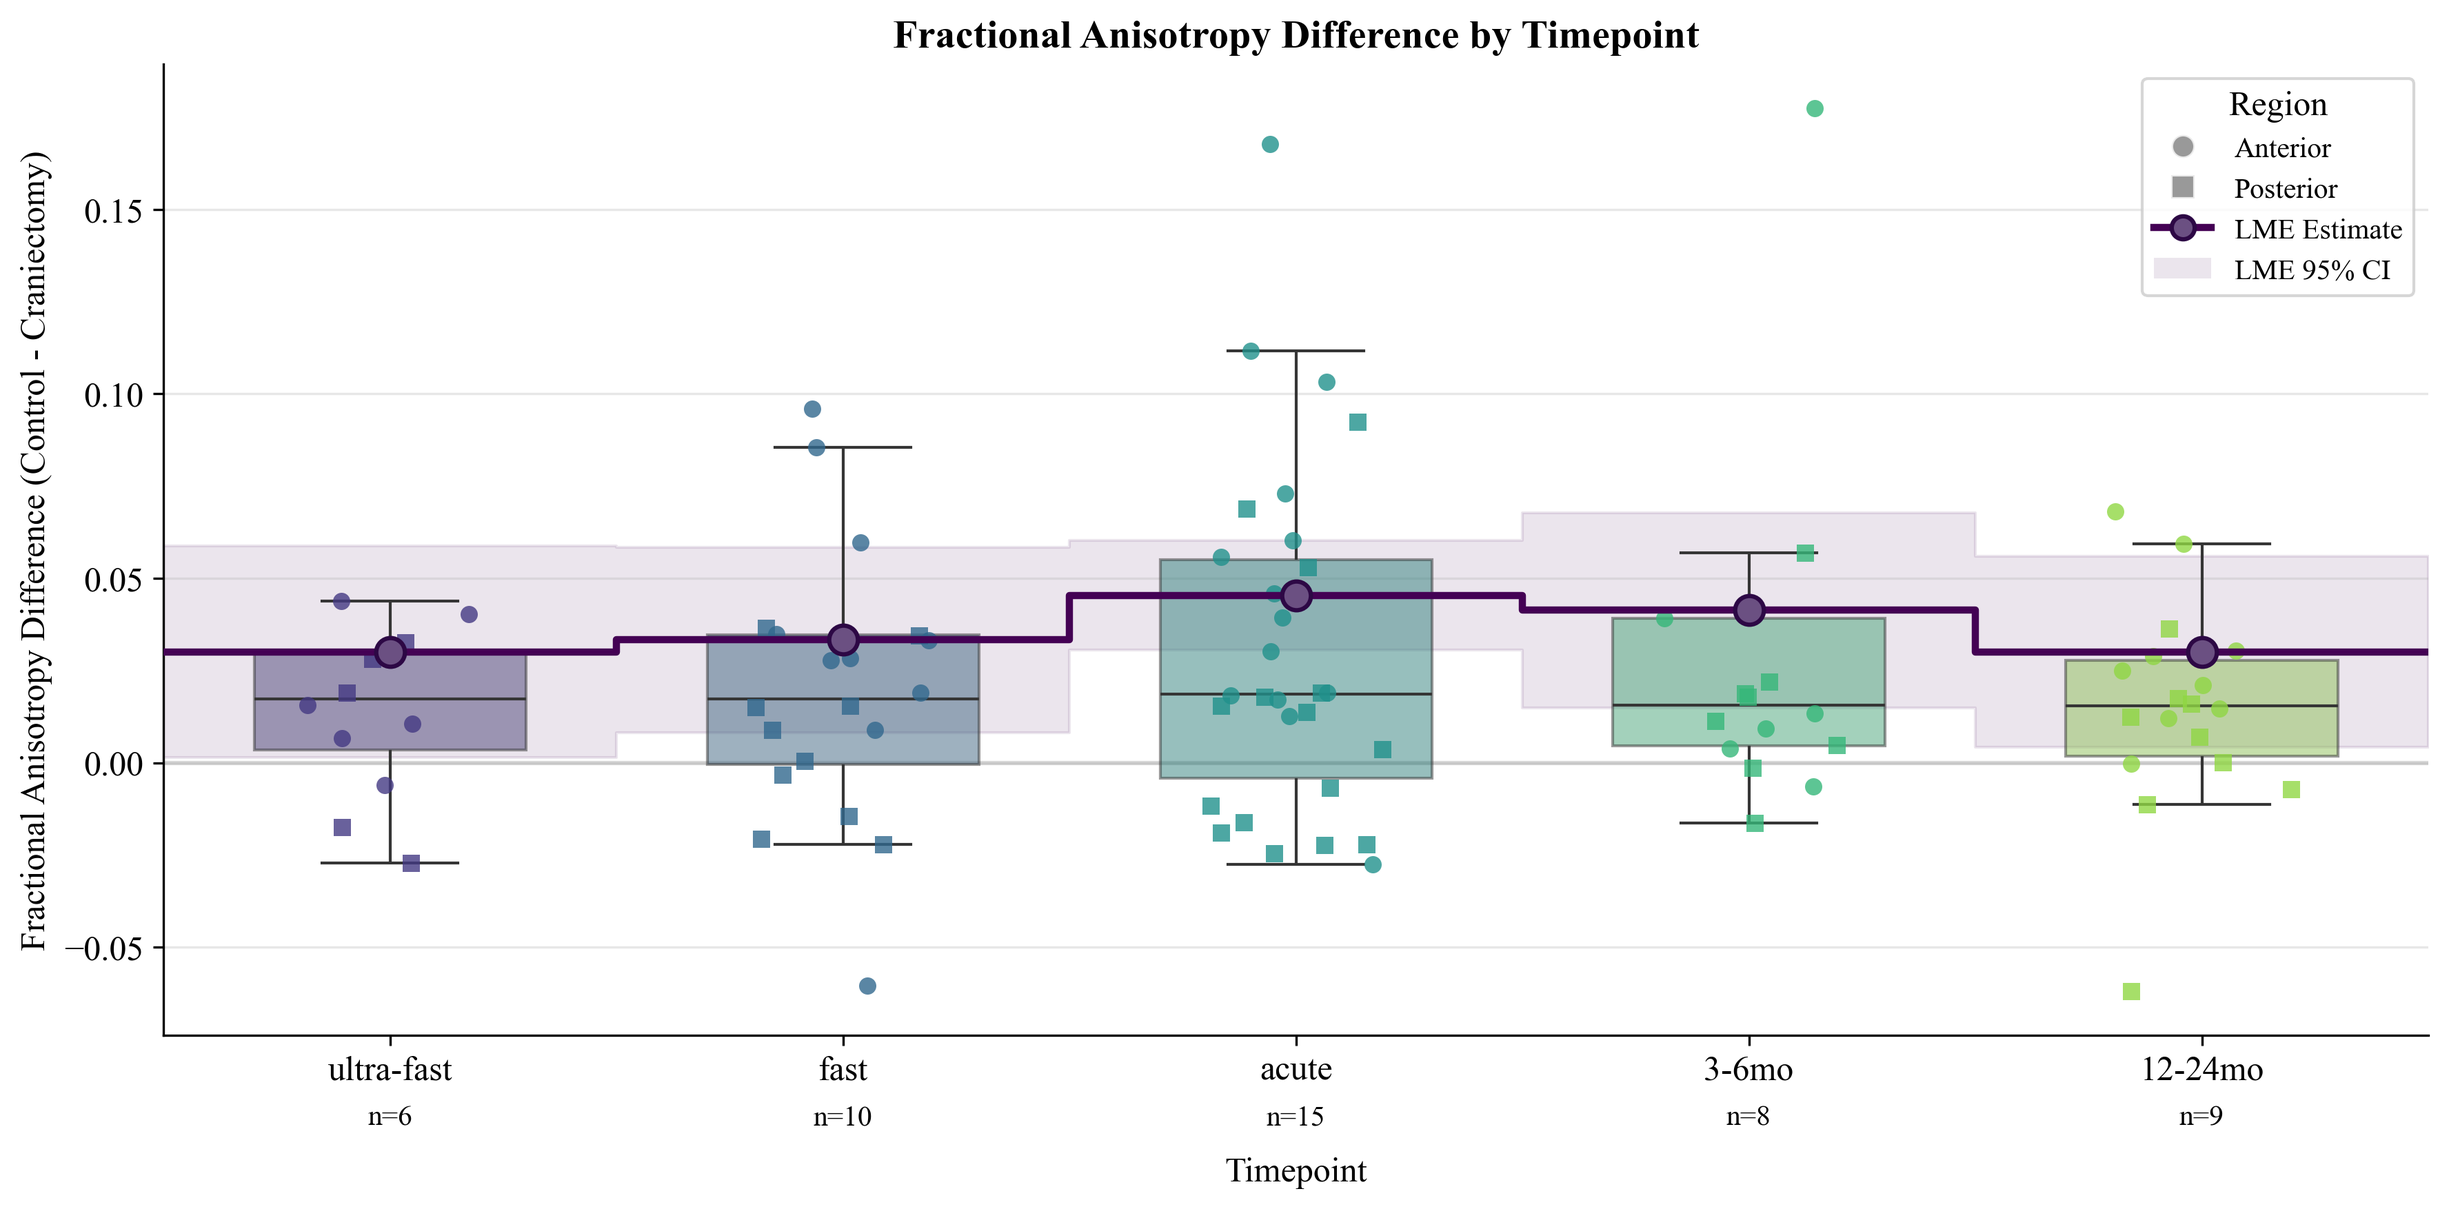
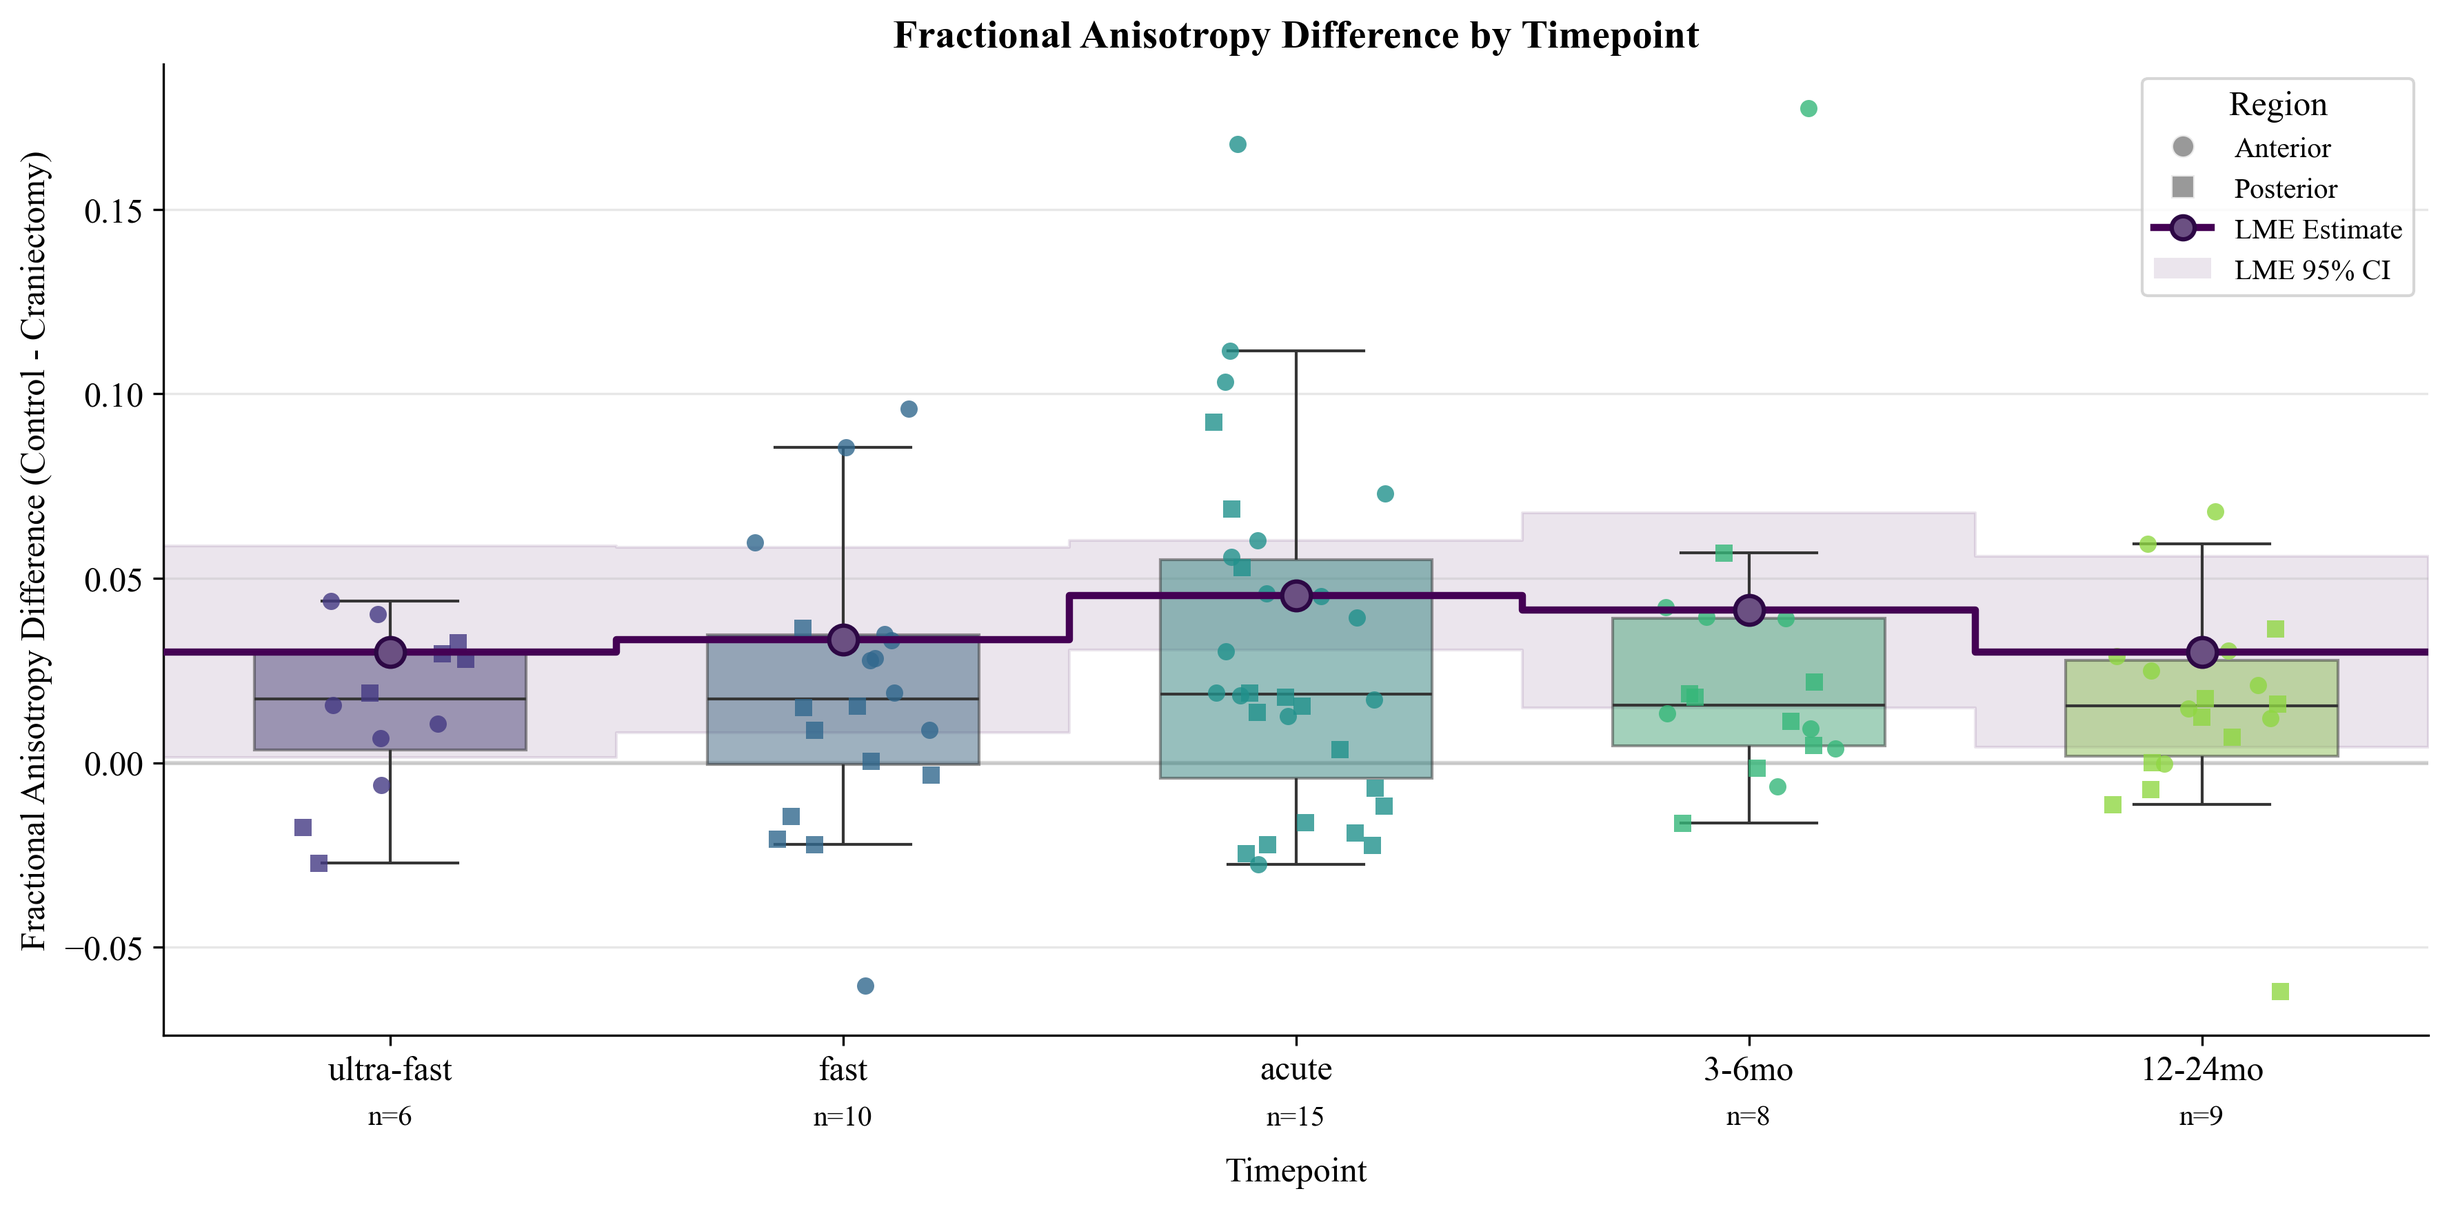
fixed effect model plotting

diff --git a/DTI_Processing_Scripts/dti_results_plotting_main.py b/DTI_Processing_Scripts/dti_results_plotting_main.py
@@ -49,7 +49,7 @@ lme4 = importr('lme4')
 emmeans = importr('emmeans')
 
 
-def create_timepoint_boxplot_LME_dti(df, parameter, result, timepoints=['ultra-fast', 'fast', 'acute', '3-6mo', '12-24mo']):
+def create_timepoint_boxplot_LME_dti_old(df, parameter, result, timepoints=['ultra-fast', 'fast', 'acute', '3-6mo', '12-24mo']):
     """
     Create a box plot with anterior and posterior data represented as different colored points,
     but with a single boxplot per timepoint combining both anterior and posterior data.
@@ -323,6 +323,354 @@ def create_timepoint_boxplot_LME_dti(df, parameter, result, timepoints=['ultra-f
     
     return fig, ax
 
+
+def create_timepoint_boxplot_LME_dti(df, parameter, result, timepoints=['ultra-fast', 'fast', 'acute', '3-6mo', '12-24mo'], 
+                                     fixed_effects_result=None, fixed_only=False):
+    """
+    Create a box plot with anterior and posterior data represented as different colored points,
+    but with a single boxplot per timepoint combining both anterior and posterior data.
+    """
+    import matplotlib.pyplot as plt
+    import numpy as np
+    import seaborn as sns
+    import pandas as pd
+    import matplotlib.cm as cm
+    import os
+
+    set_publication_style()  # Assuming this function exists in your environment
+
+    fig, ax = plt.subplots(figsize=(12, 6))
+
+    palette = sns.color_palette("viridis", len(timepoints))
+
+    # Column Names
+    anterior_column = f"{parameter}_anterior_diff"
+    posterior_column = f"{parameter}_posterior_diff"
+
+    # We need to reshape the data to have a single "value" column
+    # First, filter to only the timepoints we want
+    df_filtered = df[df['timepoint'].isin(timepoints)].copy()
+    
+    # Create a melted dataframe for plotting
+    # This reshapes the data to have a single value column with a region identifier
+    melted_data = pd.melt(
+        df_filtered,
+        id_vars=['timepoint'], 
+        value_vars=[anterior_column, posterior_column],
+        var_name='region_col',
+        value_name='diff_value'
+    )
+    
+    # Create a cleaner region column
+    melted_data['region'] = melted_data['region_col'].apply(
+        lambda x: 'Anterior' if 'anterior' in x else 'Posterior'
+    )
+    
+    # Ensure timepoints are in the correct order
+    melted_data['timepoint'] = pd.Categorical(melted_data['timepoint'],
+                                             categories=timepoints,
+                                             ordered=True)
+    
+    # Add horizontal line at y=0
+    ax.axhline(y=0, color='gray', linestyle='-', alpha=0.3)
+
+    # Create lists to track which timepoints have small sample sizes
+    small_sample_tps = []
+    regular_sample_tps = []
+    
+    for tp in timepoints:
+        # Count unique subjects in this timepoint (assuming one row per subject per timepoint)
+        tp_data = melted_data[melted_data['timepoint'] == tp]
+        tp_count = len(df[df['timepoint'] == tp])  # Original count from df
+        if tp_count < 5:
+            small_sample_tps.append(tp)
+        else:
+            regular_sample_tps.append(tp)
+    
+    # Create a copy for regular samples
+    melted_regular = melted_data[melted_data['timepoint'].isin(regular_sample_tps)].copy()
+
+    estimate_points = []
+
+    for tp in timepoints:
+        # Get the fixed effect estimate (relative to intercept)
+        if tp == "acute":
+            est = result.params["Intercept"]
+            se = result.bse["Intercept"]
+        else:
+            coef_name = f"timepoint[T.{tp}]"
+            est = result.params["Intercept"] + result.params.get(coef_name, 0)
+            se = (result.bse["Intercept"] ** 2 + result.bse.get(coef_name, 0) ** 2) ** 0.5
+        
+        estimate_points.append((tp, est, se))
+
+
+    ### PLOTTING
+    # Plot regular boxplots for n >= 5
+    if not melted_regular.empty:
+        sns.boxplot(x='timepoint', y='diff_value', data=melted_regular,
+                  palette=palette, width=0.6, ax=ax, saturation=0.7,
+                  showfliers=False)
+    
+    # For small sample sizes (n < 5), plot just the median as a line
+    for tp in small_sample_tps:
+        tp_data = melted_data[melted_data['timepoint'] == tp]
+        if not tp_data.empty and not tp_data['diff_value'].isna().all():
+            tp_index = timepoints.index(tp)
+            median_value = tp_data['diff_value'].median()
+            
+            # Plot median as a horizontal line
+            ax.hlines(median_value, tp_index - 0.3, tp_index + 0.3,
+                    color='black', linewidth=1.5, linestyle='-',
+                    alpha=0.9, zorder=5)
+            
+    # PLOT LME RESULTS OVER THE TOP
+    # for i, (tp, est, se) in enumerate(estimate_points):
+    #     ax.errorbar(
+    #         i, est, yerr=se, fmt='D', color='black', capsize=4, label='LME Estimate' if i == 0 else "",
+    #         markersize=6, zorder=6  # Appear above everything
+    #     )
+
+    # # Add LME intercept line
+    # intercept = result.params["Intercept"]
+    # ax.axhline(y=intercept, color='black', linestyle='--', linewidth=1.2, alpha=0.7, label="LME Intercept")
+
+    # Extract LME predictions
+
+    
+    x_positions = np.arange(len(timepoints))
+    y_estimates = [est for _, est, _ in estimate_points]
+    y_errors = [se for _, _, se in estimate_points]
+
+    # Calculate confidence intervals
+    ci_lower = np.array(y_estimates) - 1.96 * np.array(y_errors)
+    ci_upper = np.array(y_estimates) + 1.96 * np.array(y_errors)
+
+    # Extend to box edges (left edge of first box to right edge of last box)
+    box_width = 0.6  # Should match your boxplot width
+    x_extended = np.linspace(-box_width/2, len(timepoints)-1+box_width/2, 100)
+
+
+    # Create step function instead of linear interpolation
+    x_step = []
+    y_step = []
+    ci_lower_step = []
+    ci_upper_step = []
+
+    box_width = 0.6
+    for i, (x, y, ci_l, ci_u) in enumerate(zip(x_positions, y_estimates, ci_lower, ci_upper)):
+        if i == 0:
+            # First timepoint: calculate half the distance to next timepoint
+            half_dist_to_next = (x_positions[1] - x) / 2
+            x_step.extend([x - half_dist_to_next, x + half_dist_to_next])
+            y_step.extend([y, y])
+            ci_lower_step.extend([ci_l, ci_l])
+            ci_upper_step.extend([ci_u, ci_u])
+        else:
+            midpoint = (x_positions[i-1] + x) / 2
+            
+            # Extend previous timepoint to midpoint
+            x_step.append(midpoint)
+            y_step.append(y_estimates[i-1])
+            ci_lower_step.append(ci_lower[i-1])
+            ci_upper_step.append(ci_upper[i-1])
+            
+            # Step up/down at midpoint
+            x_step.append(midpoint)
+            y_step.append(y)
+            ci_lower_step.append(ci_l)
+            ci_upper_step.append(ci_u)
+            
+            # Continue to next midpoint or end
+            if i == len(x_positions) - 1:
+                # Last timepoint: extend by half the distance from previous
+                half_dist_from_prev = (x - x_positions[i-1]) / 2
+                x_step.append(x + half_dist_from_prev)
+                y_step.append(y)
+                ci_lower_step.append(ci_l)
+                ci_upper_step.append(ci_u)
+
+
+    # Plot step function
+    if fixed_only is False:
+        ax.fill_between(x_step, ci_lower_step, ci_upper_step, 
+                        alpha=0.1, color='#440154', label='LME 95% CI', step='post')
+        ax.plot(x_step, y_step, '-', color='#440154', linewidth=2.5, 
+                label='LME Estimate', zorder=10, drawstyle='steps-post')
+        ax.plot(x_positions, y_estimates, 'o', markerfacecolor='#6B5082', 
+            markersize=10, markeredgecolor='#2D0845', markeredgewidth=1.5,
+            zorder=11)
+
+    # ADD FIXED EFFECTS PLOTTING IF PROVIDED
+    if fixed_effects_result is not None:
+        fe_estimate_points = []
+        for tp in timepoints:
+            # Get the fixed effect estimate (relative to intercept)
+            if tp == "acute":
+                est = fixed_effects_result.params["Intercept"]
+                se = fixed_effects_result.bse["Intercept"]
+            else:
+                coef_name = f"timepoint[T.{tp}]"
+                est = fixed_effects_result.params["Intercept"] + fixed_effects_result.params.get(coef_name, 0)
+                se = (fixed_effects_result.bse["Intercept"] ** 2 + fixed_effects_result.bse.get(coef_name, 0) ** 2) ** 0.5
+            
+            fe_estimate_points.append((tp, est, se))
+
+        fe_y_estimates = [est for _, est, _ in fe_estimate_points]
+        fe_y_errors = [se for _, _, se in fe_estimate_points]
+        fe_ci_lower = np.array(fe_y_estimates) - 1.96 * np.array(fe_y_errors)
+        fe_ci_upper = np.array(fe_y_estimates) + 1.96 * np.array(fe_y_errors)
+
+        # Create step function for fixed effects
+        fe_x_step = []
+        fe_y_step = []
+        fe_ci_lower_step = []
+        fe_ci_upper_step = []
+
+        for i, (x, y, ci_l, ci_u) in enumerate(zip(x_positions, fe_y_estimates, fe_ci_lower, fe_ci_upper)):
+            if i == 0:
+                half_dist_to_next = (x_positions[1] - x) / 2
+                fe_x_step.extend([x - half_dist_to_next, x + half_dist_to_next])
+                fe_y_step.extend([y, y])
+                fe_ci_lower_step.extend([ci_l, ci_l])
+                fe_ci_upper_step.extend([ci_u, ci_u])
+            else:
+                midpoint = (x_positions[i-1] + x) / 2
+                fe_x_step.append(midpoint)
+                fe_y_step.append(fe_y_estimates[i-1])
+                fe_ci_lower_step.append(fe_ci_lower[i-1])
+                fe_ci_upper_step.append(fe_ci_upper[i-1])
+                
+                fe_x_step.append(midpoint)
+                fe_y_step.append(y)
+                fe_ci_lower_step.append(ci_l)
+                fe_ci_upper_step.append(ci_u)
+                
+                if i == len(x_positions) - 1:
+                    half_dist_from_prev = (x - x_positions[i-1]) / 2
+                    fe_x_step.append(x + half_dist_from_prev)
+                    fe_y_step.append(y)
+                    fe_ci_lower_step.append(ci_l)
+                    fe_ci_upper_step.append(ci_u)
+
+        # Plot fixed effects with different color/style
+        ax.fill_between(fe_x_step, fe_ci_lower_step, fe_ci_upper_step, 
+                        alpha=0.1, color='#DE3163', label='Fixed Effects 95% CI', step='post')
+        ax.plot(fe_x_step, fe_y_step, '--', color='#DE3163', linewidth=2.5, 
+                label='Fixed Effects Estimate', zorder=12, drawstyle='steps-post')
+        ax.plot(x_positions, fe_y_estimates, 's', markerfacecolor='#DE3163', 
+            markersize=8, markeredgecolor='white', markeredgewidth=1.5,
+            zorder=13)
+
+    # For anterior (using circles)
+    for i, tp in enumerate(timepoints):
+        # Filter data for this timepoint and region
+        tp_data = melted_data[(melted_data['timepoint'] == tp) & 
+                             (melted_data['region'] == 'Anterior')]
+        if not tp_data.empty:
+            # Use the same color from the viridis palette as the boxplot
+            sns.stripplot(x='timepoint', y='diff_value', 
+                        data=tp_data,
+                        dodge=False, jitter=0.2, size=6, alpha=0.8, ax=ax,
+                        marker='o', color=palette[i])
+    # For posterior (using squares)
+    for i, tp in enumerate(timepoints):
+        # Filter data for this timepoint and region
+        tp_data = melted_data[(melted_data['timepoint'] == tp) & 
+                             (melted_data['region'] == 'Posterior')]
+        if not tp_data.empty:
+            # Use the same color from the viridis palette as the boxplot
+            sns.stripplot(x='timepoint', y='diff_value', 
+                        data=tp_data,
+                        dodge=False, jitter=0.2, size=6, alpha=0.8, ax=ax,
+                        marker='s', color=palette[i])
+    
+    # Create a clean legend with exactly one entry per category
+    from matplotlib.lines import Line2D
+    legend_elements = [
+        Line2D([0], [0], marker='o', color='w', markerfacecolor='gray', 
+            markersize=8, label='Anterior', alpha=0.8),
+        Line2D([0], [0], marker='s', color='w', markerfacecolor='gray', 
+            markersize=8, label='Posterior', alpha=0.8) 
+    ]
+    if fixed_only is False:
+        # ADD LME TO LEGEND
+        legend_elements += [
+            Line2D([0], [0], color='#440154', linewidth=2.5, marker='o', markerfacecolor='#6B5082', markeredgecolor='#2D0845', markersize=8, markeredgewidth=1.5, label='LME Estimate'),
+            plt.Rectangle((0,0),1,1, facecolor='#440154', alpha=0.1, label='LME 95% CI')
+        ]
+    
+    # ADD FIXED EFFECTS TO LEGEND IF PROVIDED
+    if fixed_effects_result is not None:
+        legend_elements += [
+            Line2D([0], [0], color='#DE3163', linewidth=2.5, linestyle='--', marker='s', markerfacecolor='#DE3163', markeredgecolor='white', markersize=8, markeredgewidth=1.5, label='Fixed Effects Estimate'),
+            plt.Rectangle((0,0),1,1, facecolor='#DE3163', alpha=0.1, label='Fixed Effects 95% CI')
+        ]
+
+    # Reduce opacity of box elements
+    for patch in ax.patches:
+        patch.set_alpha(0.5)
+    
+    # Set parameter-specific labels and title
+    if parameter.lower() == "fa":
+        param_name = "Fractional Anisotropy"
+        unit = ""
+    elif parameter.lower() == "md":
+        param_name = "Mean Diffusivity"
+        unit = " [mm²/s]"
+    
+    # Set labels and title
+    ax.set_xlabel('Timepoint', fontsize=12)
+    ax.set_ylabel(f'{param_name} Difference (Control - Craniectomy){unit}', fontsize=12)
+    ax.set_title(f'{param_name} Difference by Timepoint', fontsize=14, fontweight='bold')
+    
+    # Add grid for y-axis only
+    ax.grid(True, axis='y', linestyle='-', alpha=0.3)
+    
+    # Move the legend to a better position
+    ax.legend(handles=legend_elements, title='Region', loc='upper right')
+    
+    # Show count of patients per timepoint
+    for i, tp in enumerate(timepoints):
+        # Get subset of df_filtered for this timepoint
+        df_tp = df_filtered[df_filtered['timepoint'] == tp]
+
+        # Count unique patients with at least one non-null anterior or posterior value
+        count = df_tp[(~df_tp[anterior_column].isna()) | (~df_tp[posterior_column].isna())]['patient_id'].nunique()
+
+        # count = melted_data[(melted_data['timepoint'] == tp) & (~melted_data['diff_value'].isna())].shape[0] // 2
+        if count > 0:
+            if parameter == 'fa':
+                ax.text(i, ax.get_ylim()[0] * 1.35, f"n={count}",
+                    ha='center', va='bottom', fontsize=10)
+            else:
+                ax.text(i, ax.get_ylim()[0] * 1.125, f"n={count}",
+                    ha='center', va='bottom', fontsize=10)
+    
+    ax.xaxis.set_label_coords(0.5, -0.125)  # Move x-axis label down
+    plt.tight_layout()
+    
+    # Save figures to specified directories
+    output_dir = "DTI_Processing_Scripts/dti_plots"
+    if not os.path.exists(output_dir):
+        os.makedirs(output_dir)
+        
+    thesis_dir = "../Thesis/phd-thesis-template-2.4/Chapter6/Figs"
+    if not os.path.exists(thesis_dir):
+        os.makedirs(thesis_dir)
+    
+    # Save figures
+    suffix=''
+    if fixed_effects_result is not None:
+        if fixed_only is False:
+            suffix='_mixed_and_fixed'
+        else:
+            suffix='_fixed_only'
+    plt.savefig(f'{output_dir}/{parameter}_diff_lme_boxplot_combined{suffix}.png')
+    plt.savefig(f'{thesis_dir}/{parameter}_diff_lme_boxplot_combined{suffix}.png', dpi=600)
+    plt.close()
+    
+    return fig, ax
 
 def data_availability_matrix(data, timepoints, diff_column='fa_anterior_diff', filename='data_availability.png'):
     """
@@ -2540,7 +2888,15 @@ if __name__ == '__main__':
     print("\nFixed Effects Parameters:")
     print(result_fixed_post.params)
 
+
+    create_timepoint_boxplot_LME_dti(df=wm_data_roi_567_combi, parameter='fa', result=result, fixed_effects_result=result_fixed)
+    create_timepoint_boxplot_LME_dti(df=wm_data_roi_567_combi, parameter='fa', result=result, fixed_effects_result=result_fixed, fixed_only=True)
+
     sys.exit()
+
+    ##### PLOT FIXED EFFECT ON BOX PLOT
+
+
 
 
     ### COMBINE RESULTS wm_data_roi_567 with area data
